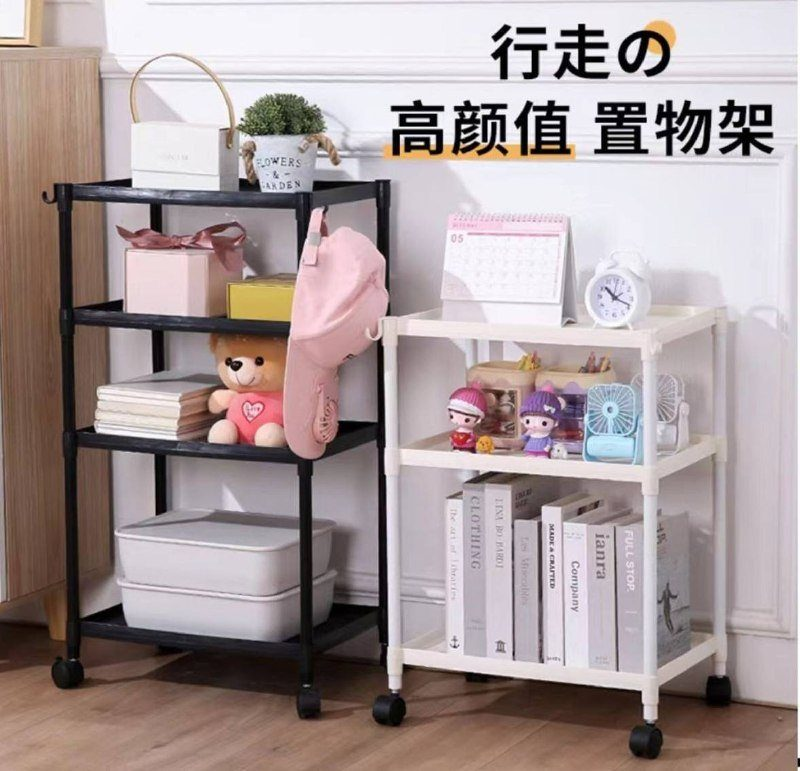
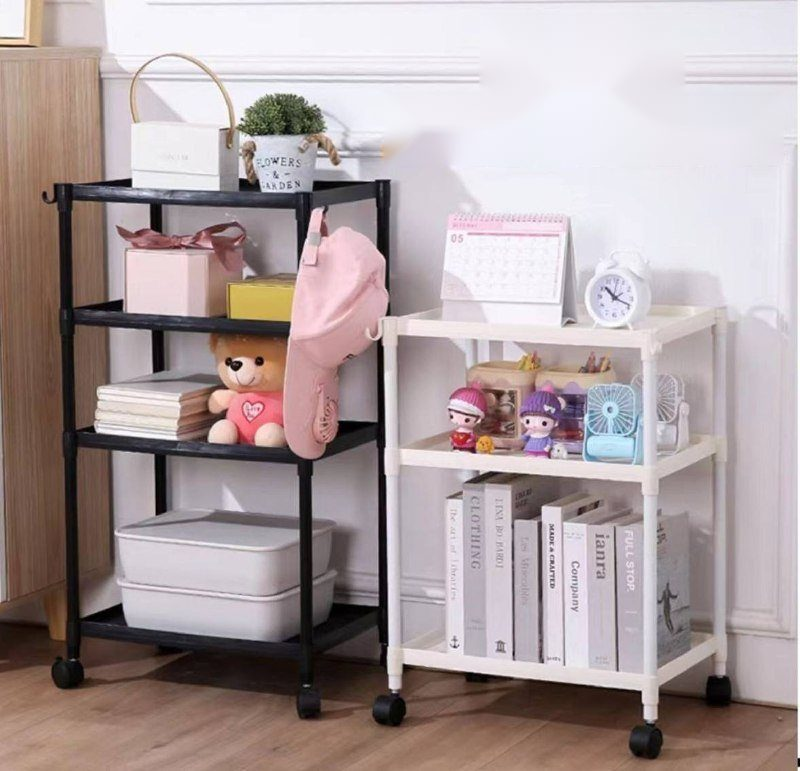
Colores: jarra solo verde y espejo solo negro (sin fotos de otros colores), color indicado en bacinica, batidor, carrito y pistola; fotos sin texto en otros idiomas; criterios de temporada (lluvias y Navidad)
Claude-Session: https://claude.ai/code/session_01MgmDH6pCDFuWnRiK5RvJ9x

Changed region(s): [[0.4688, 0.0, 0.9688, 0.2179]]

diff --git a/scripts/procesar_fotos.py b/scripts/procesar_fotos.py
@@ -28,7 +28,7 @@ RE_PRECIO = re.compile(r'(\$\s*\d|precio|\b\d{1,3}[.,]\d{2}\b)', re.I)
 RE_PROVEEDOR = re.compile(r'(\d{3}[\s.-]?\d{3}[\s.-]?\d{3,4}|@|t\.me|https?:|www\.|kayde|pandita|importadora|whats|pedidos|cons[ií]guelo|env[ií]os|mayor|precio vip)', re.I)
 RE_MARCA = re.compile(r'(kayde|pandita|importadora|s[ií]guenos)', re.I)
 # texto en portugués o inglés (las fotos de catálogo chino suelen traerlo)
-RE_EXTRANJERO = re.compile(r'(ção|ções|ões|ã|õ|acao|icao|ucao|coes|voce|\bnao\b|com ?cabo|\bpara o\b|with|design|sturdy|storage|rotat|wheel|shop|details|pulley|hang|toddler|potty|training|reliable|practical|soup ?pot|\bnew\b|\bsize\b|power|\beasy\b|\bfree\b|\bthe\b)', re.I)
+RE_EXTRANJERO = re.compile(r'(ção|ções|ões|ã|õ|acao|icao|ucao|coes|voce|\bnao\b|com ?cabo|\bcom\b|\bpara o\b|pilhas|limpar|limpeza|haste|with|design|sturdy|storage|rotat|wheel|shop|details|product|pulley|hang|toddler|potty|training|reliable|practical|soup ?pot|\bnew\b|\bsize\b|power|\beasy\b|\bfree\b|\bthe\b|\bpink\b|\bblue\b|\bblack\b|\bwhite\b|\bgr[ae]y\b|\bgreen\b|\bpurple\b|\byellow\b|hair|clipper|shaver|trimmer|[\u3040-\u30ff\u4e00-\u9fff\uac00-\ud7af])', re.I)
 FUENTES = ['/usr/share/fonts/truetype/dejavu/DejaVuSans-Bold.ttf', '/usr/share/fonts/truetype/liberation/LiberationSans-Bold.ttf']
 
 ocr = RapidOCR()

diff --git a/CRITERIOS.md b/CRITERIOS.md
@@ -1,0 +1,47 @@
+# Criterios para elegir y preparar productos
+
+Reglas que sigue la actualización de cada noche (y cualquier carga manual) al pasar productos de los canales de Telegram a la tienda. Las decidió el dueño de la tienda.
+
+## 1. Prioridades de temporada (noviembre y diciembre de 2026)
+
+Elegir primero, en este orden:
+
+1. **Lluvias (fenómeno de El Niño en Ecuador).** Ponchos e impermeables, paraguas, botas de caucho, cubrezapatos, capas para moto y para mochila, cobertores impermeables, tendederos y secadores de ropa para interiores, deshumedecedores, alfombras absorbentes, organizadores contra la humedad.
+2. **Navidad.** Árboles, luces, adornos, nacimientos, manteles y cojines navideños, coronas, figuras con luz y música, artículos para la cena y para regalar.
+3. Después, lo de siempre: hogar, cocina, cuidado personal y bebés que tenga más probabilidad de venderse.
+
+## 2. Descripciones bien detalladas, con medidas
+
+- Siempre poner medidas, capacidad, tamaño, peso o voltaje cuando el proveedor las da (en cm, m, litros, watts).
+- Árboles de Navidad: altura en cm o metros, número de ramas o puntas, tipo de base y si trae luces o adornos.
+- Luces: largo en metros, número de focos, tipo (LED), si es a pila, USB o enchufe, y si tiene modos.
+- Ponchos e impermeables: talla o medidas, material y si trae capucha.
+- Nunca poner teléfonos, enlaces, nombres ni marcas del proveedor.
+
+## 3. Colores
+
+- Si el proveedor dice que hay **un solo color** (por ejemplo "disponible solo en negro"):
+  - el color va en el nombre (por ejemplo "Espejo de cuerpo entero con soporte, negro"),
+  - la primera característica dice "Disponible solo en color negro" y la descripción también lo dice,
+  - se **quitan todas las fotos que muestren otros colores**.
+- Si dice **varios colores**: "Disponible en rosado y azul (según disponibilidad)".
+- Si dice **colores al azar o surtidos**: "Color surtido, según disponibilidad".
+- Si no dice nada y las fotos muestran varios colores: "Color según disponibilidad".
+
+## 4. Fotos
+
+- Solo fotos reales del producto.
+- Sin texto en otros idiomas (inglés, portugués, chino, etc.). Si todas lo tienen, recortar o borrar ese texto.
+- Sin afiches del proveedor, logos, precios viejos ni números de contacto.
+
+## 5. Precio
+
+Margen sobre el precio del proveedor, redondeado hacia arriba al dólar:
+
+- menos de $5: +100 %
+- de $5 a $9.99: +75 %
+- $10 o más: +50 %
+
+## 6. Aprobación
+
+Todo producto nuevo entra como "Por aprobar". Solo se publica cuando el dueño lo aprueba en la página de revisión.
